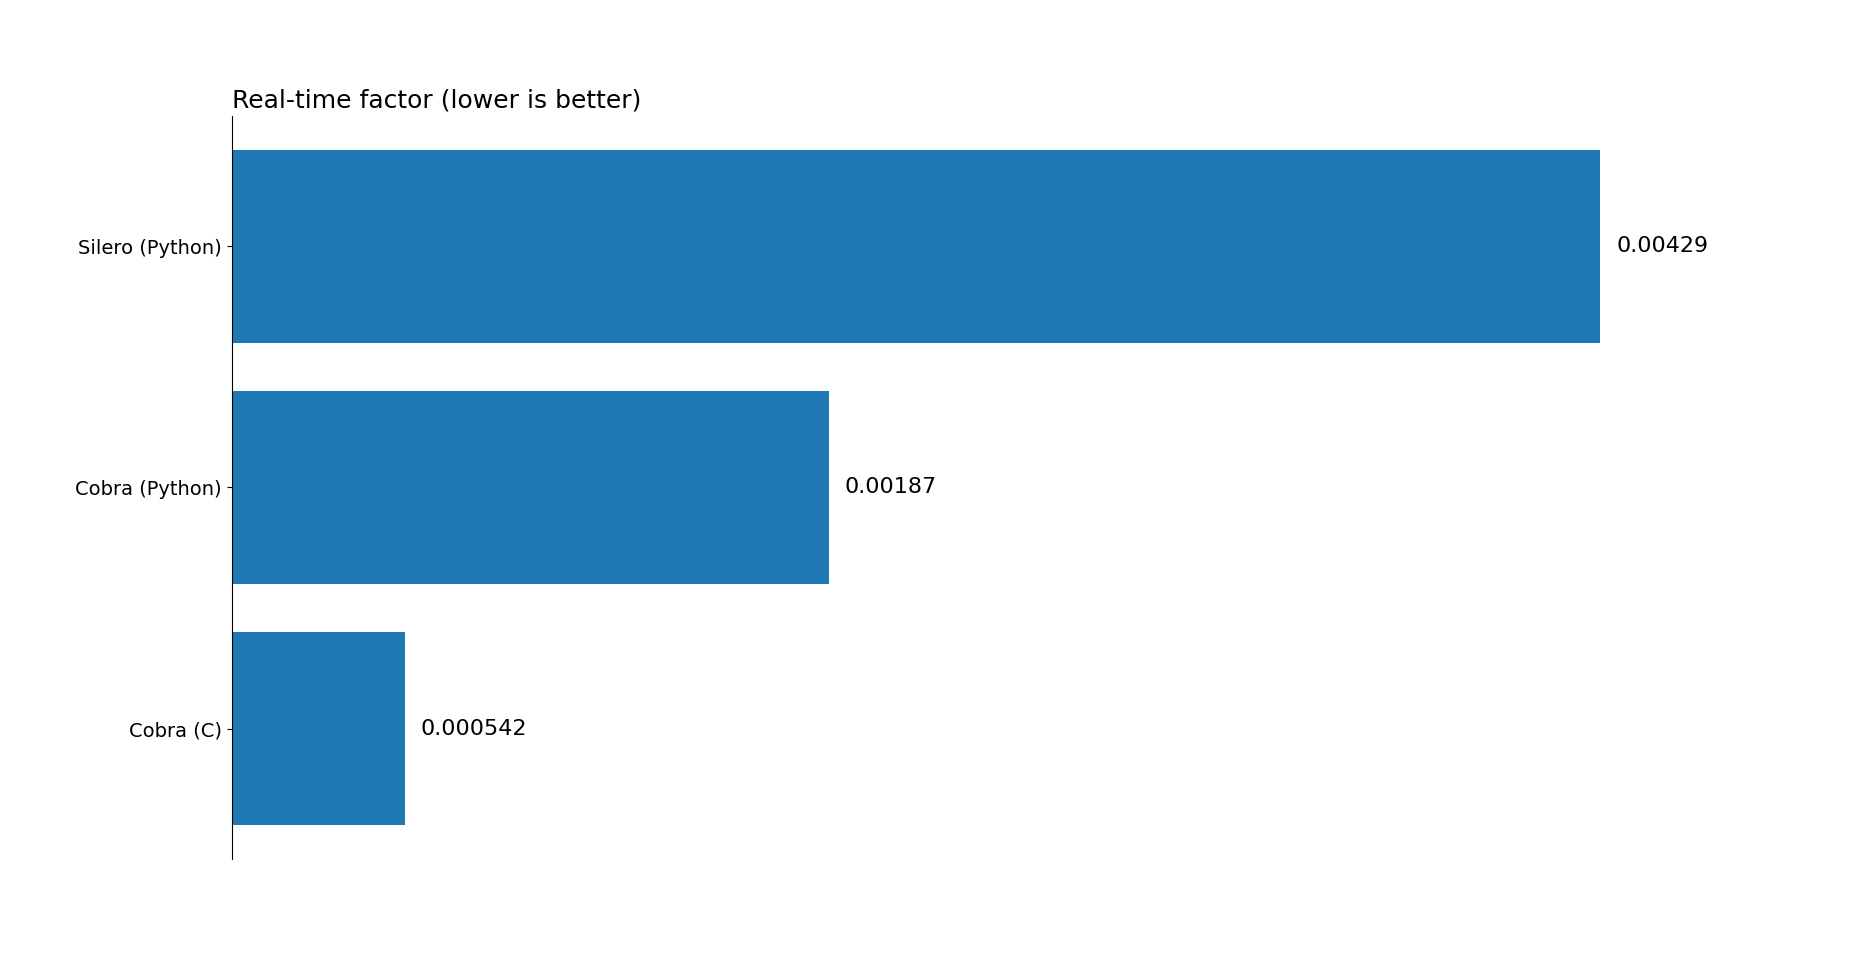
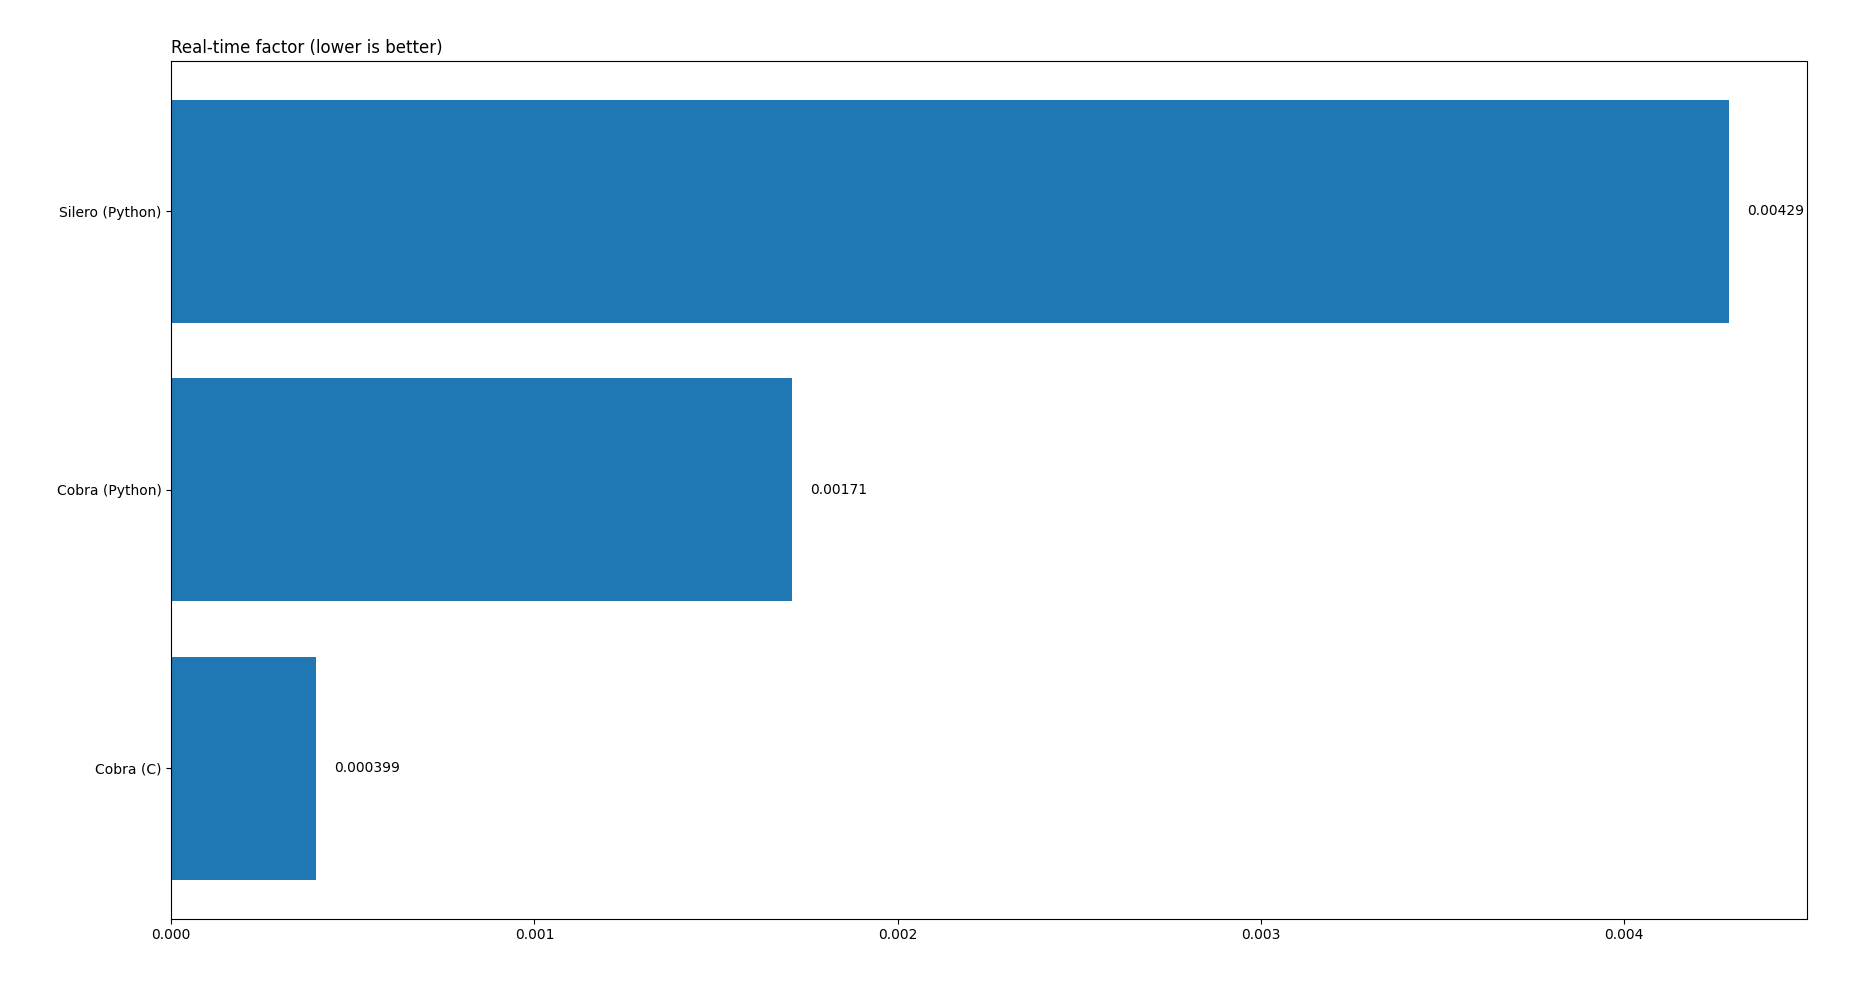
v3 benchmark updates (#10)

diff --git a/runtime/runtime_test.c b/runtime/runtime_test.c
@@ -91,7 +91,7 @@ int main(int argc, char *argv[]) {
         exit(1);
     }
 
-    pv_status_t (*pv_cobra_init_func)(const char *, pv_cobra_t **) = load_symbol(cobra_library, "pv_cobra_init");
+    pv_status_t (*pv_cobra_init_func)(const char *, const char *, pv_cobra_t **) = load_symbol(cobra_library, "pv_cobra_init");
     if (!pv_cobra_init_func) {
         print_dl_error("failed to load 'pv_cobra_init'");
         exit(1);
@@ -151,7 +151,7 @@ int main(int argc, char *argv[]) {
     }
 
     pv_cobra_t *cobra = NULL;
-    pv_status_t status = pv_cobra_init_func(access_key, &cobra);
+    pv_status_t status = pv_cobra_init_func(access_key, "best", &cobra);
     if (status != PV_STATUS_SUCCESS) {
         fprintf(stderr, "failed to init with '%s'", pv_status_to_string_func(status));
         exit(1);

diff --git a/README.md b/README.md
@@ -83,8 +83,8 @@ of different engines. The top shows the overall graph. The bottom shows the top-
 
 ## Runtime
 
-On a Raspberry Pi Zero, Cobra measured a realtime factor of `0.05`, or about `5%` CPU usage.
-On a laptop with an Intel(R) Core(TM) i7-1185G7, Cobra measured a realtime factor of `0.0006`.
+On a Raspberry Pi Zero, Cobra measured a realtime factor of `0.037`, or about `3.7%` CPU usage.
+On a laptop with an Intel® Core™ Ultra 7 155H, Cobra measured a realtime factor of `0.0002`.
 On an Ubuntu 22.04 machine with AMD CPU (`AMD Ryzen 9 5900X (12) @ 3.70GHz`), the following RTFs were recorded:
 ![](doc/img/rtf.png)
 
